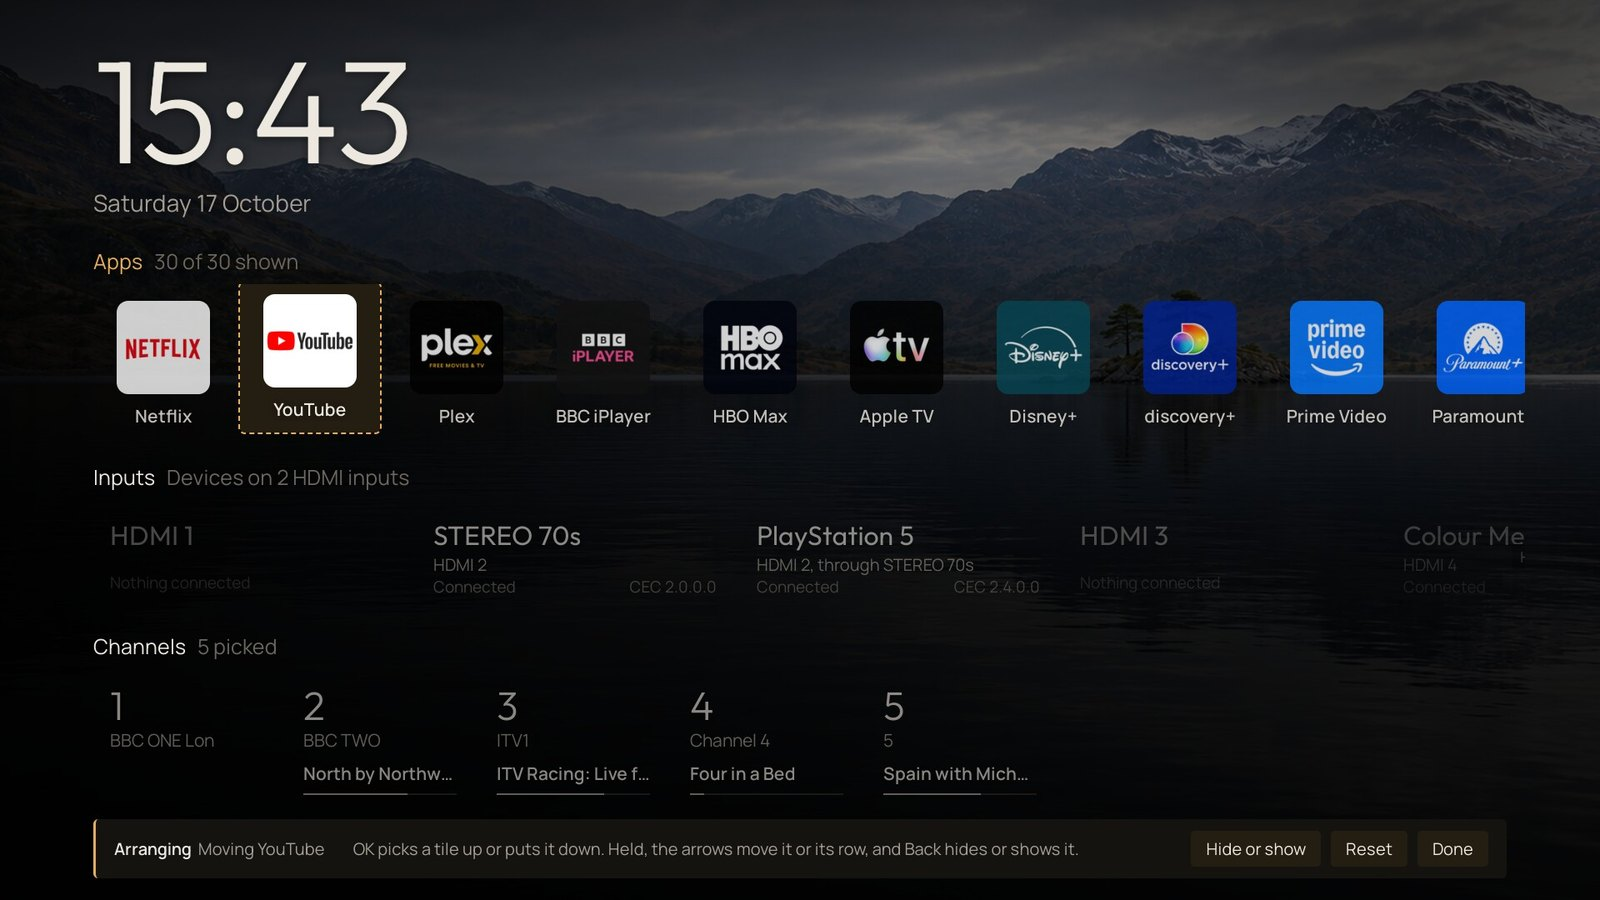
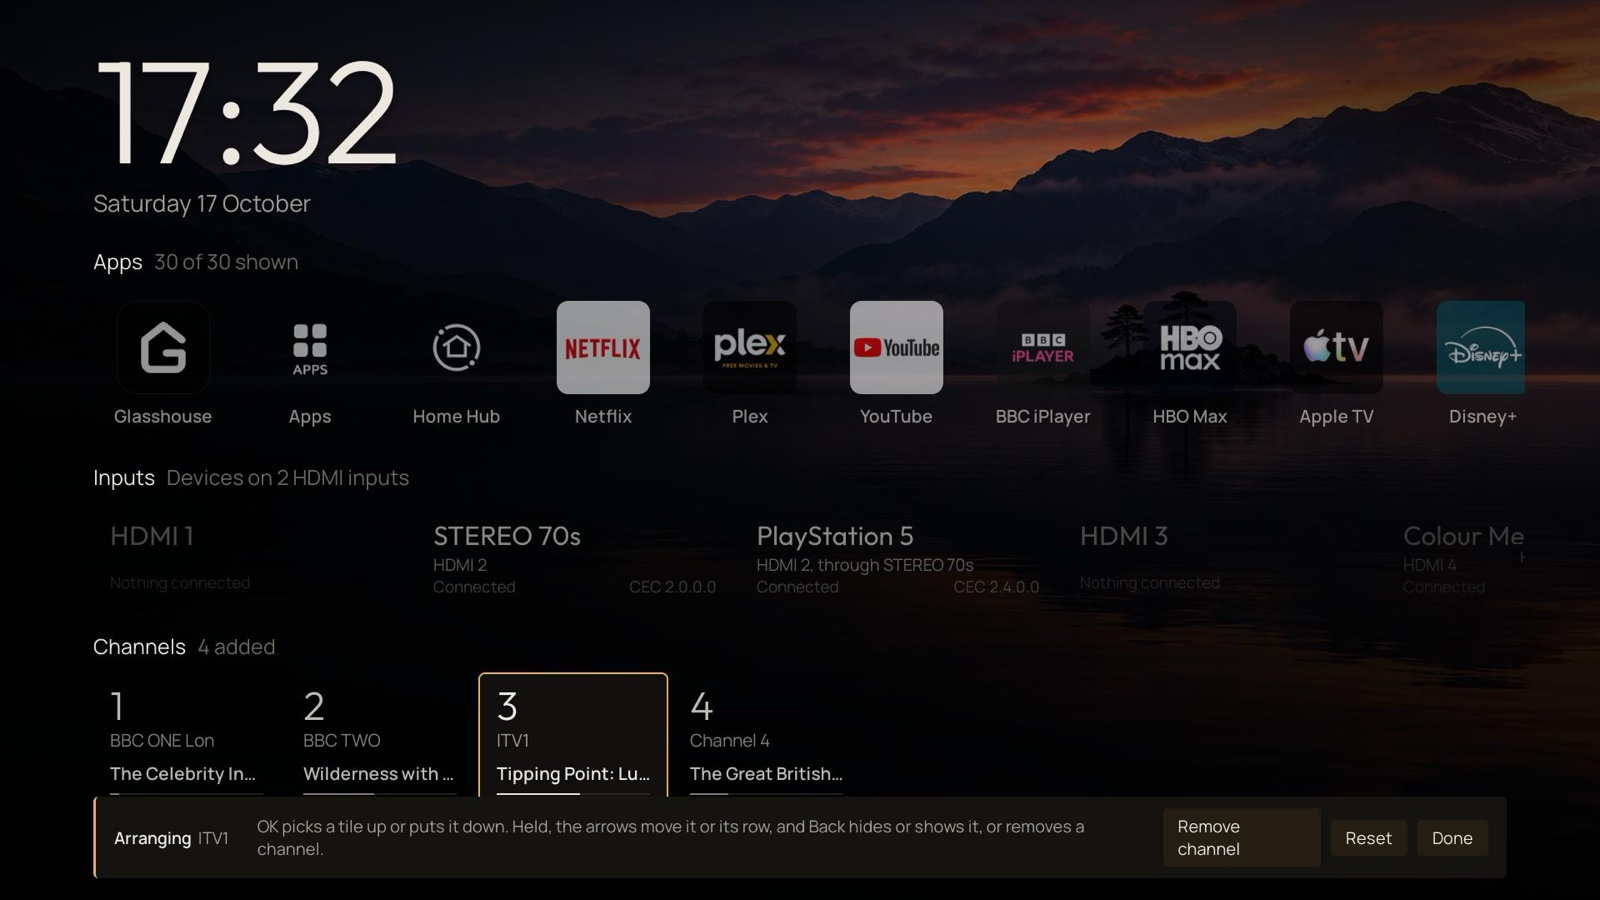
Home: arranging label follows focus, and new screenshots
The arranging bar's Remove channel / Hide or show label was set before the
focused tile was recorded, so it lagged one move behind. The web tab's row
list no longer touches its description. Screenshots retaken on the G3 for
the channel changes.

Claude-Session: https://claude.ai/code/session_01QsqFjcXYnFEArtyxTCabjb

diff --git a/server/assets/home.html b/server/assets/home.html
@@ -350,14 +350,14 @@ body{font-family:'Manrope',sans-serif;color:#ece7df;-webkit-font-smoothing:antia
       scrollTrack(rowEl, tiles[c], instant);
     }
     var btns = ['btnHide', 'btnReset', 'btnDone'];
-    // Apps and inputs come from the TV and can only be hidden; channels were added, so they are removed.
-    $('btnHide').textContent = state.last && state.last.kind === 'ch'
-      ? t('home.arrange.removeChannel', 'Remove channel') : t('home.arrange.hide', 'Hide or show');
     for (var b = 0; b < btns.length; b++) $(btns[b]).className = 'btn' + (state.bar === b ? ' focus' : '');
     if (state.bar < 0) {
       var focused = items(rowKey())[colOf(rowKey())];
       state.last = focused ? { kind: rowKey(), id: focused.id } : null;
     }
+    // Apps and inputs come from the TV and can only be hidden; channels were added, so they are removed.
+    $('btnHide').textContent = state.last && state.last.kind === 'ch'
+      ? t('home.arrange.removeChannel', 'Remove channel') : t('home.arrange.hide', 'Hide or show');
     if (state.arranging) {
       var it = items(rowKey())[colOf(rowKey())];
       $('bannerState').textContent = !it ? t('home.arrange.emptyRow', 'This row is empty')

diff --git a/server/assets/ui/ui.css b/server/assets/ui/ui.css
@@ -1393,6 +1393,7 @@ button.tools-jump:active{background:var(--w80)}
 .sys-tile.sys-changed .rk-name{color:var(--cand)}
 
 /* The Home tab */
+#home-rows{margin-top:14px}
 .home-row{border-top:1px solid var(--edge);padding:10px 0}
 .home-row summary{display:flex;align-items:center;justify-content:space-between;gap:12px;cursor:pointer;list-style:none;padding:6px 0}
 .home-row-move{display:flex;gap:6px}

diff --git a/.log/261017-1740-home-settings-live-arranging-and-screenshots.md b/.log/261017-1740-home-settings-live-arranging-and-screenshots.md
@@ -1,0 +1,63 @@
+# 261017-1740 - Home settings: live arranging on the TV, two fixes, new screenshots
+
+Follow-up to 261017-1727, after the operator allowed further testing on the
+Office TV and asked for the PR images to be updated.
+
+## Live arranging (Office OLED55G36LA, webOS 9.2.2)
+
+Keys were sent to the Glasshouse Home view as CDP `Input.dispatchKeyEvent`
+over the devtools tunnel (local 19998 to the TV's 9998), with the view in
+front. Checked, in order: long OK enters arranging; the bar reads "Remove
+channel" on a channel and "Hide or show" on an input; a channel picked up,
+moved right and dropped; Back while held removes it; the bar's Remove
+channel removes another; Done saves exactly the remaining channels; a
+move-only arrangement (ITV1 to the front) saves the new order; an empty
+Channels row shows "Add channels in Glasshouse's Home settings" and "This
+row is empty" while arranging, and Done leaves it empty; a layout posted by
+an old page with `hidden.ch` removes that channel and stores `hidden.ch`
+empty. The original four channels were restored after each case and read
+back equal.
+
+## Found and fixed
+
+- The bar label was set before `state.last` was updated, so it lagged one
+  focus move (it read "Remove channel" on HDMI 1 after leaving the Channels
+  row). The label is now set after. Confirmed on the TV after the fix.
+- The "Rows and tiles" description touched the first row's rule on the web
+  tab; `#home-rows` has a 14 px top margin.
+
+## Failed runs
+
+- The first injected run reported "Done" not saving. Cause: the script
+  pressed the bar button and then right, right, OK, but pressing a bar button
+  returns focus to the tiles, so those keys moved and picked up tiles. Not a
+  product fault; the corrected sequence (down to the bar, then right twice)
+  saved. The unsaved arranging state was discarded by the next page load.
+- The fixed home.html did not reach the view after being copied to the TV:
+  the server keeps assets in memory (`ASSET_CACHE` in routes.js), so a
+  restart is needed after copying files. `Page.reload` additionally reused
+  the cached URL. After `tvwebctl restart` and navigating with a fresh
+  `?t=`, the view showed the new code.
+
+## Screenshots
+
+Retaken on the TV at 1920x1080 via CDP `Page.captureScreenshot` and scaled
+to 1600x900 (home.jpg after opening Channel 4 and returning, so "Last
+watched" shows; home-arrange.jpg with ITV1 focused; home-tv-app.jpg on the
+TV app's Channels section), and home-dashboard.png from the live web tab at
+1440x1100 with Apps and Inputs collapsed and "BBC" in the channel search.
+home-evening.jpg and home-idle.jpg are unchanged; nothing in them changed.
+
+The operator is resizing the wallpapers in server/assets/home/wallpapers at
+the same time; those files are left out of this commit.
+
+## End state
+
+TV on Glasshouse Home, original four channels in order, the deployed
+home.js, home.html, dashboard.html, ui.html, ui/home.js and ui/ui.css match
+this commit by MD5. Older wallpaper .jpg files from an earlier iteration
+remain in /var/lib/tvweb/assets/home/wallpapers on the TV; nothing refers
+to them.
+
+`node test/run-all.js` 81/81 (Node 22), check-es5, check-strings,
+check-ui-ids and check-dashboards rerun after the fixes.

diff --git a/docs/dashboard/home.md b/docs/dashboard/home.md
@@ -38,9 +38,9 @@ The Home button opens Glasshouse Home directly: while it is on, Glasshouse's rem
 
 Over SSH, `tvwebctl restore-glasshouse-home` does what **Use LG Home** does. Switch Glasshouse Home off before uninstalling Glasshouse.
 
-![The Home tab in the browser dashboard](../screenshots/home-dashboard.png)
+![The Home tab in the browser dashboard: the Channels row with its added channels, and Add channels below them](../screenshots/home-dashboard.png)
 
-![The Home section of the TV app](../screenshots/home-tv-app.jpg)
+![The Home section of the TV app: inputs shown or hidden, channels removed with OK, and Add channels](../screenshots/home-tv-app.jpg)
 
 ## Arranging
 
@@ -52,4 +52,4 @@ The view confirms a save or reset only after the server accepts it, and reports 
 
 A catalogue reply arriving during arranging cannot replace the edits. Reset leaves the Apps row following its default order. A server update waits until arranging and saving finish before reloading the view.
 
-![Arranging on the TV: YouTube picked up, with the bar for hiding, resetting and finishing](../screenshots/home-arrange.jpg)
+![Arranging on the TV: ITV1 focused in the Channels row, with the bar for removing it, resetting and finishing](../screenshots/home-arrange.jpg)
